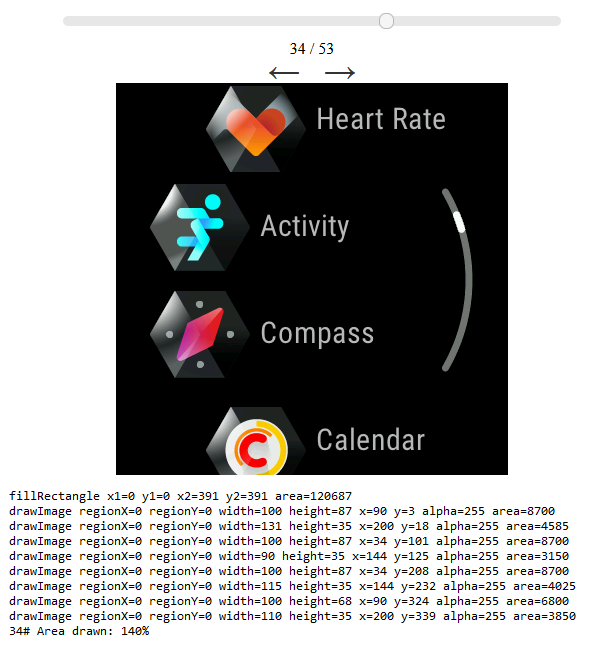
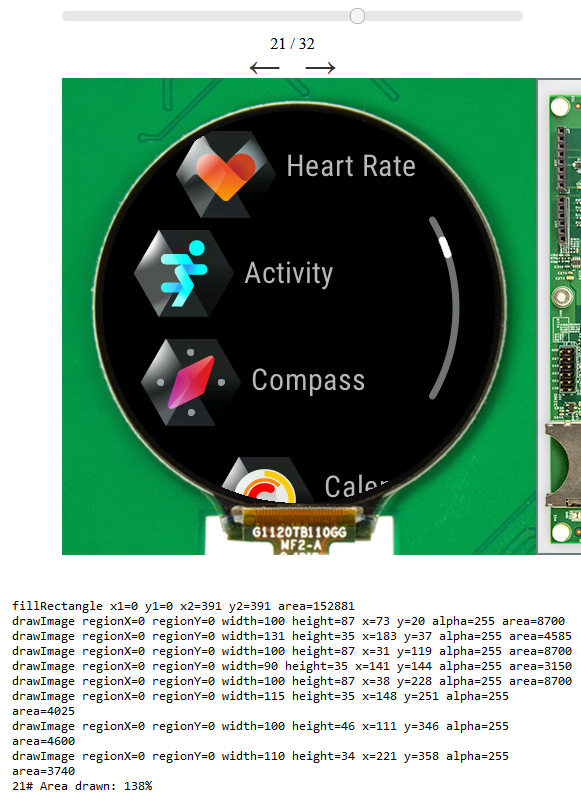
Add installation, usage & known limitations, update images
also remove the unused image ui-flush-visualizer-fp-launcher.png

diff --git a/ApplicationDeveloperGuide/UI/Advanced/how-to-microui-flush-visualizer.rst b/ApplicationDeveloperGuide/UI/Advanced/how-to-microui-flush-visualizer.rst
@@ -10,8 +10,6 @@ This article introduces the MicroUI Flush Visualizer, a tool designed to investi
 
 - Requirements: VEE Port with UI Pack 13.0.0 or higher.
 
-- Installation procedure: `MicroUI Flush Visualizer <https://github.com/MicroEJ/How-To/tree/master/MicroUI-Flush-Visualizer>`__
-
 Understanding the Rendering Pipeline
 ------------------------------------
 
@@ -62,4 +60,40 @@ As always, when conducting a performance study, measure.
 Use :ref:`systemview` to identify the bottlenecks in your application on the embedded target.
 A total area drawn over 200% is inefficient, but your application may have bigger bottlenecks.
 Confirm it by measuring the time spent drawing vs. the time spent elsewhere between flushes.
+
+Installation
+------------
+
+1. Open the Front Panel file ``.fp``.
+
+2. Replace the ``ej.fp.widget.Display`` widget by ``ej.fp.widget.FlushVisualizerDisplay``
+
+3. Set the shape of the display to either ``RECTANGLE`` or ``CIRCLE``:
+
+For example:
+
+.. code-block:: xml
+
+   <ej.fp.widget.FlushVisualizerDisplay x="10" y="10" width="200" height="200" filter="f.png" shape="CIRCLE" />
+
+Usage
+-----
+
+1. Run the application in the Simulator.
+
+2. Open the file ``MicroUIFlushVisualizer/MicroUIFlushVisualizer.html`` that was generated in the :ref:`application output folder <outputfiles>`.
+
+.. image:: images/MicroUIFlushVisualizerApplicationOutputFolder.png
+
+
+Known Limitations
+-----------------
+
+- Do not take into account the clip of the GraphicsContext.
+  Regardless of the clip, the complete area of the drawing is accounted for.
+- Do not take into account Vector Graphics (VG) operations.
+  VG drawings are not accounted for in the total of area drawn.
+- Do not take into account drawing that are done outside of the screen (even partially).
+  Such drawing are accounted as if they were done on the screen.
+- Do not take into account drawing of thick shapes and rendering with transformations from `ej.drawing <https://repository.microej.com/modules/ej/api/drawing/>`__ package. 
 
